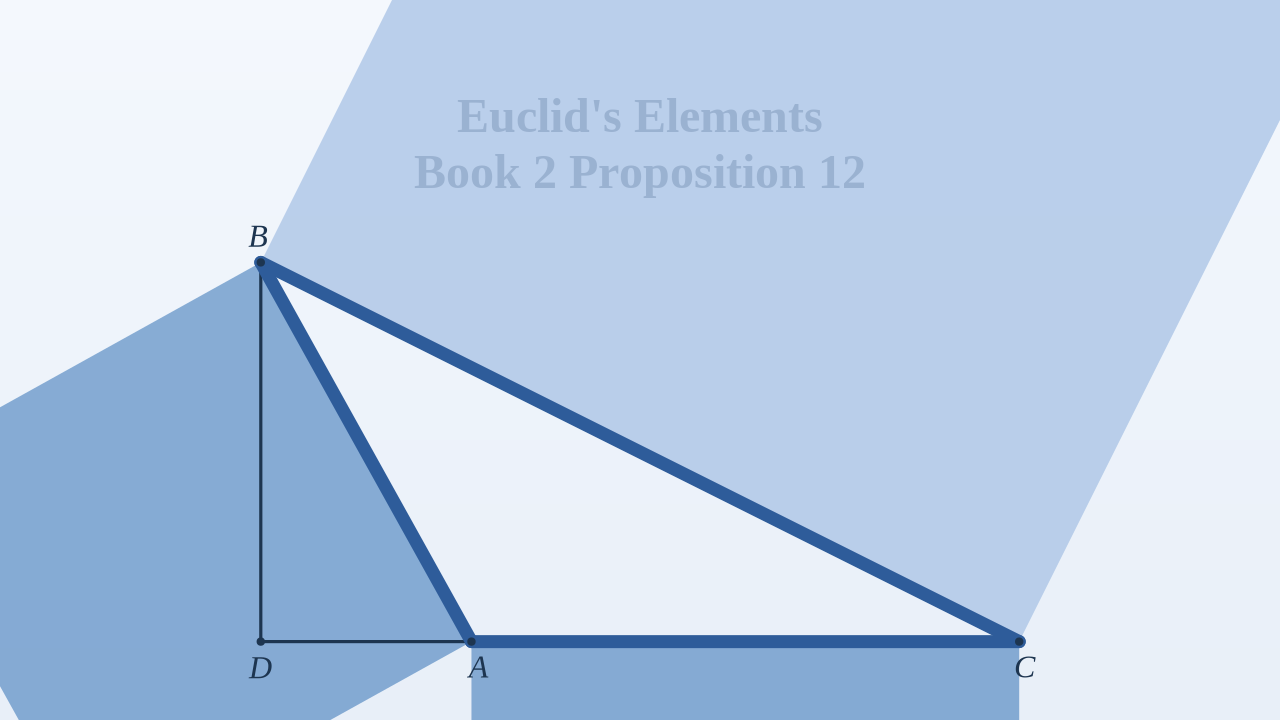
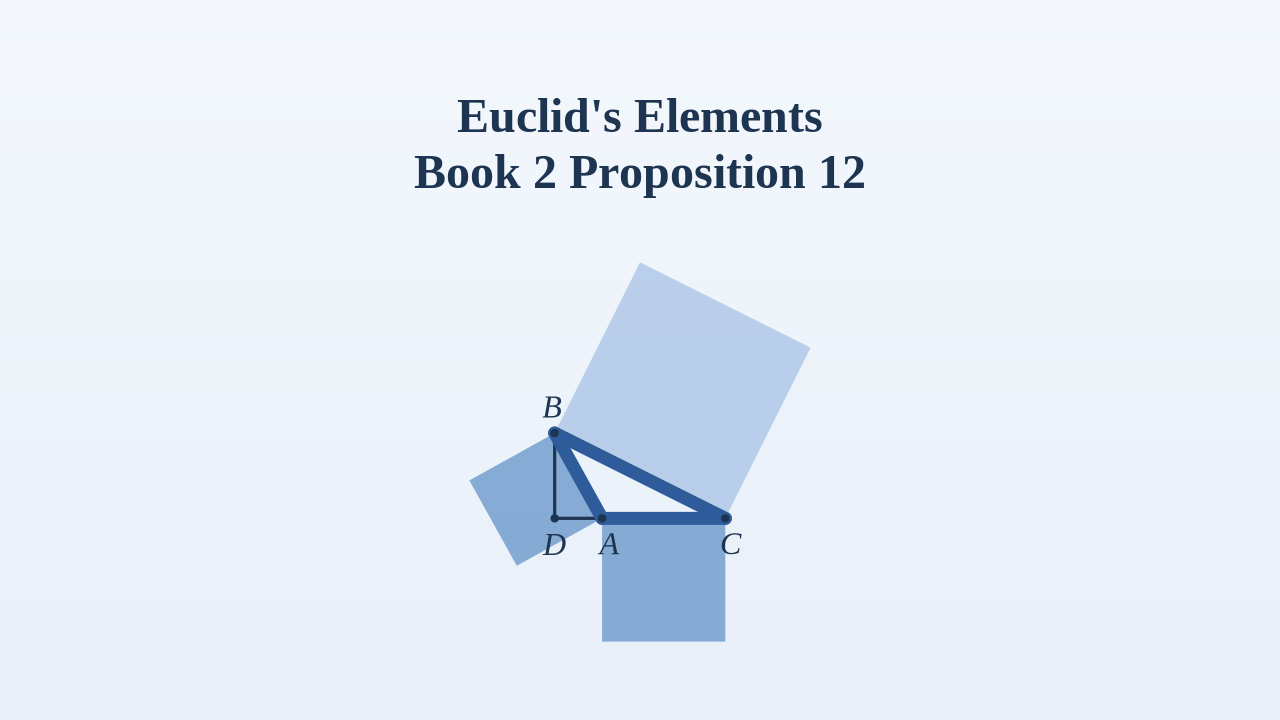
Keep the II.12 thumbnail title navy.
The square on BC was left out of the fit, so its wash ran into the header and paled the title. Those corners stay in the fit. II.13 already clears the header, so its triangle stays at the plate size.

diff --git a/scripts/youtube_book1_thumbs.py b/scripts/youtube_book1_thumbs.py
@@ -1439,8 +1439,14 @@ def prepare(n: int, scene: Scene, book: int = 1) -> None:
             pts = square_outward(scene.at(pn), scene.at(qn), scene.at(away))
             scene.pin(f"{key}1", pts[2])
             scene.pin(f"{key}2", pts[3])
-            scene.fit_skip.add(f"{key}1")
-            scene.fit_skip.add(f"{key}2")
+            # II.12's square on BC reaches the header if the corners are
+            # skipped, and the wash pales the title. The title stays navy,
+            # the color every other card uses, so those corners stay in the
+            # fit. II.13's squares clear the header, so skipping them keeps
+            # the triangle at the plate size.
+            if n == 13:
+                scene.fit_skip.add(f"{key}1")
+                scene.fit_skip.add(f"{key}2")
         for u, v in SQUARE_QUIET2.get(n, ()):
             scene.join(u, v)
     # ANGLES is Book I. Keyed by proposition number only, so I.5's pies
